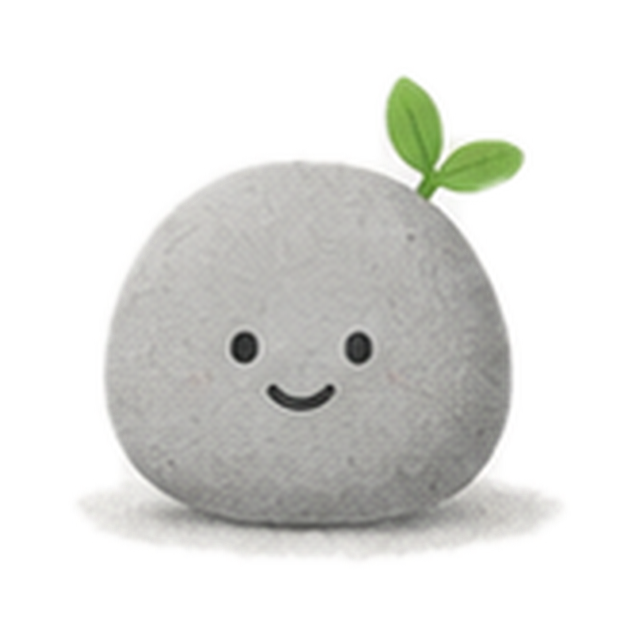
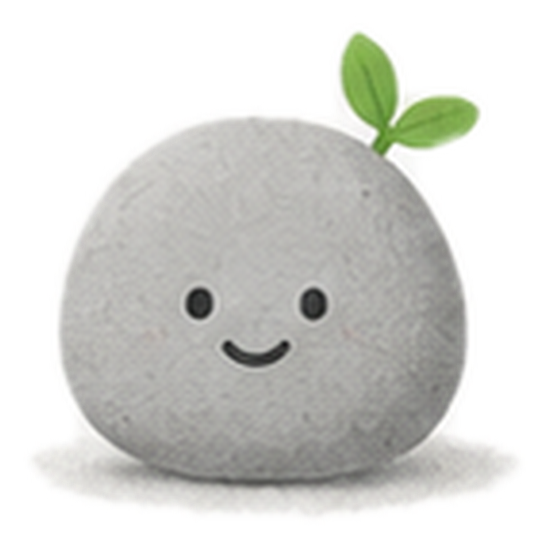
Add files via upload

diff --git a/frontend/style.css b/frontend/style.css
@@ -1768,3 +1768,67 @@ main { max-width: var(--content); padding: 28px 28px 88px; }
 @media (max-width: 760px) {
   .kimdol-mascot-image { width: min(82vw, 280px); margin-inline: auto; }
 }
+
+/* ============================================================
+   v5.2 — 김돌 이미지 크기 안전장치 + 브라우저 캐시 대응
+   HTML 자체에도 width/height를 넣어 CSS가 늦게 로드되어도 화면이 무너지지 않게 함.
+   ============================================================ */
+.brand-mascot {
+  width: 45px !important;
+  height: 45px !important;
+  min-width: 45px !important;
+  max-width: 45px !important;
+  min-height: 45px !important;
+  max-height: 45px !important;
+  display: inline-flex !important;
+  align-items: center !important;
+  justify-content: center !important;
+  overflow: hidden !important;
+  flex: 0 0 45px !important;
+}
+.brand-mascot img {
+  width: 45px !important;
+  height: 45px !important;
+  min-width: 0 !important;
+  max-width: 45px !important;
+  min-height: 0 !important;
+  max-height: 45px !important;
+  object-fit: contain !important;
+  display: block !important;
+}
+.hero-mascot-card {
+  overflow: hidden !important;
+}
+.kimdol-mascot-image {
+  width: min(100%, 330px) !important;
+  height: auto !important;
+  max-width: 330px !important;
+  max-height: 330px !important;
+  object-fit: contain !important;
+  display: block !important;
+  margin: 0 auto !important;
+}
+@media (max-width: 820px) {
+  .brand-mascot,
+  .brand-mascot img {
+    width: 39px !important;
+    height: 39px !important;
+    min-width: 39px !important;
+    max-width: 39px !important;
+    min-height: 39px !important;
+    max-height: 39px !important;
+    flex-basis: 39px !important;
+  }
+  .kimdol-mascot-image {
+    width: min(74vw, 260px) !important;
+    max-width: 260px !important;
+    max-height: 260px !important;
+  }
+}
+@media (max-width: 520px) {
+  .kimdol-mascot-image {
+    width: min(72vw, 225px) !important;
+    max-width: 225px !important;
+    max-height: 225px !important;
+  }
+}

diff --git a/frontend/index.html b/frontend/index.html
@@ -8,13 +8,13 @@
 <meta content="화관법 법령 검색, 개정 아카이브, 시행일 캘린더를 제공하는 findol" name="description"/>
 <title>findol | 환경·화학·안전 규정 실무검색</title>
 <link href="https://cdn.jsdelivr.net/gh/orioncactus/pretendard@v1.3.9/dist/web/variable/pretendardvariable-dynamic-subset.css" rel="stylesheet"/>
-<link href="style.css" rel="stylesheet"/>
+<link href="style.css?v=5.2" rel="stylesheet"/>
 </head>
 <body>
 <header class="site-header">
 <div class="header-inner">
 <a aria-label="findol 홈" class="brand" href="#" id="logoHome">
-<span aria-hidden="true" class="brand-mascot"><img src="assets/kimdol-mascot.png" alt=""/></span>
+<span aria-hidden="true" class="brand-mascot"><img src="assets/kimdol-mascot.png?v=5.2" alt="" width="45" height="45" style="width:45px;height:45px;max-width:45px;max-height:45px;object-fit:contain;display:block"/></span>
 <span class="brand-word">findol</span>
 </a>
 <nav aria-label="주요 메뉴" class="main-nav">
@@ -81,7 +81,7 @@
 </div>
 <aside aria-label="김돌 캐릭터" class="hero-mascot-card">
 
-<img class="kimdol-mascot-image stone-float" src="assets/kimdol-mascot.png" alt="웃고 있는 회색 조약돌 김돌 캐릭터"/>
+<img class="kimdol-mascot-image stone-float" src="assets/kimdol-mascot.png?v=5.2" alt="웃고 있는 회색 조약돌 김돌 캐릭터" width="330" height="330" style="width:min(100%,330px);height:auto;max-width:330px;max-height:330px;object-fit:contain;display:block;margin:0 auto"/>
 </aside>
 </section><section aria-label="주요 기능 바로가기" class="service-shortcuts">
 <button class="service-card" data-search-focus="" type="button">
@@ -263,6 +263,6 @@
 </article>
 </div>
 <div aria-live="polite" class="toast" id="toast" role="status"></div>
-<script src="script.js"></script>
+<script src="script.js?v=5.2"></script>
 </body>
 </html>

diff --git a/frontend/README_V5_2.md b/frontend/README_V5_2.md
@@ -1,0 +1,5 @@
+# 김돌 캐릭터 수정본 v5.1
+
+- 기존 코드형 SVG 캐릭터 대신 디자인 시안의 김돌 캐릭터 이미지를 실제 파일로 적용했습니다.
+- 적용 파일: `frontend/assets/kimdol-mascot.png`
+- 헤더 로고와 메인 히어로 영역 모두 같은 캐릭터 이미지를 사용합니다.
